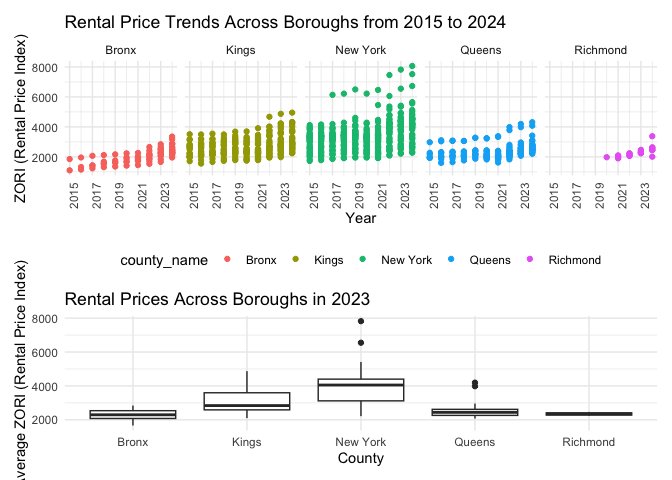
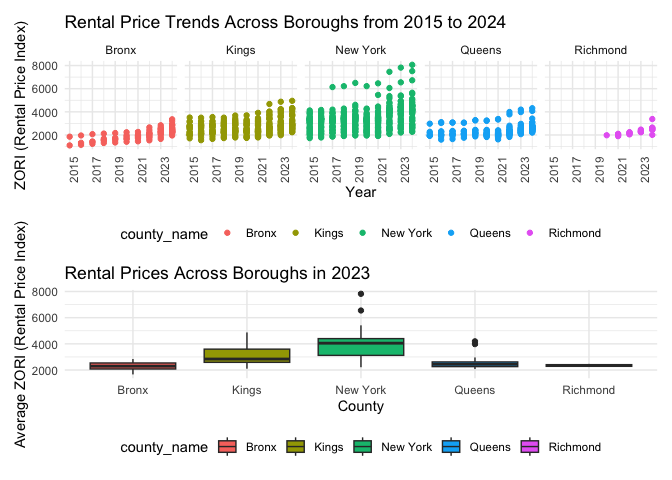
Update some plots and add comments

diff --git a/p8105_hw3_rk3445.md b/p8105_hw3_rk3445.md
@@ -206,6 +206,11 @@ instacart |>
 | Coffee Ice Cream |  13.77 |  14.32 |   15.38 |     15.32 |    15.22 |  12.26 |    13.83 |
 | Pink Lady Apples |  13.44 |  11.36 |   11.70 |     14.25 |    11.55 |  12.78 |    11.94 |
 
+From the table, Coffee Ice Cream is ordered the latest on Tuesday, with
+an average order time of 15.38 hours. Pink Lady Apples are ordered the
+latest on Wednesday, with an average order time of 14.25 hours, and the
+earliest on Monday.
+
 # Problem 2
 
 **Import, clean, and tidy Zillow datasets ** Import, clean, tidy NYC
@@ -260,9 +265,6 @@ zillow_nyc =
 ZIP codes are observed 116 times? How many are observed fewer than 10
 times? Why are some ZIP codes are observed rarely and others observed in
 each month?**
-
-(Question! Should I use the merged data of zipcode and zillow_nyc to
-consider the all the zipcodes instead of using only zillow dataset?)…!
 
 ``` r
 zipcode_all = 
@@ -424,10 +426,6 @@ ZIP-code-level rental prices across boroughs; put differently, your plot
 should facilitate the comparison of the distribution of average rental
 prices across boroughs. Comment on this plot.**
 
-!! question! The question says over each month but the zillow data
-already provides the monthly based rental price for each zip code. Does
-it mean that we need to compute the average over 2023?
-
 ``` r
 rental_2023 = 
   zillow_nyc |> 
@@ -436,27 +434,19 @@ rental_2023 =
   )  |> 
   filter(year == 2023) |> 
   group_by(zip_code, county_name) |> 
-  summarize(avg_zori = mean(zori)) |> 
-  ggplot(aes(x = county_name, y = avg_zori)) +
-  geom_boxplot() +
+  summarize(avg_zori = mean(zori), .groups = "drop") |> 
+  ggplot(aes(x = county_name, y = avg_zori, fill = county_name)) +
+  geom_boxplot(na.rm = TRUE) +
   labs(
     title = "Rental Prices Across Boroughs in 2023",    
     x = "County",
     y = "Average ZORI (Rental Price Index)"
-    
   ) +
-  theme_minimal()
-```
+  theme_minimal() +
+  theme(legend.position = "bottom") 
 
-    ## `summarise()` has grouped output by 'zip_code'. You can override using the
-    ## `.groups` argument.
-
-``` r
 rental_2023
 ```
-
-    ## Warning: Removed 36 rows containing non-finite outside the scale range
-    ## (`stat_boxplot()`).
 
 ![](p8105_hw3_rk3445_files/figure-gfm/unnamed-chunk-16-1.png)<!-- -->
 
@@ -473,9 +463,6 @@ to a results folder in your repository.**
 rental_allyear / rental_2023 
 ```
 
-    ## Warning: Removed 36 rows containing non-finite outside the scale range
-    ## (`stat_boxplot()`).
-
 ![](p8105_hw3_rk3445_files/figure-gfm/unnamed-chunk-17-1.png)<!-- -->
 
 ``` r
@@ -483,9 +470,6 @@ rental_plot = rental_allyear + rental_2023 + plot_layout(ncol = 2)
 
 ggsave("results/rental_combined.png", rental_plot, width = 12, height = 5, dpi = 300)
 ```
-
-    ## Warning: Removed 36 rows containing non-finite outside the scale range
-    ## (`stat_boxplot()`).
 
 # Problem 3
 
@@ -553,17 +537,18 @@ final_merged |>
     n_count = n(), 
     .groups = "drop"
   ) |> 
+  pivot_wider(
+    names_from = sex,
+    values_from = n_count
+  ) |> 
   knitr::kable() 
 ```
 
-| education              | sex    | n_count |
-|:-----------------------|:-------|--------:|
-| High school equivalent | female |      23 |
-| High school equivalent | male   |      35 |
-| Less than high school  | female |      28 |
-| Less than high school  | male   |      27 |
-| More than high school  | female |      59 |
-| More than high school  | male   |      56 |
+| education              | female | male |
+|:-----------------------|-------:|-----:|
+| High school equivalent |     23 |   35 |
+| Less than high school  |     28 |   27 |
+| More than high school  |     59 |   56 |
 
 **create a visualization of the age distributions for men and women in
 each education category.**
@@ -654,27 +639,27 @@ final_merged |>
   mutate(time = as.numeric(gsub("min", "", time))) |> 
   ggplot(aes(x = time, y = activity, color = sex)) +
   geom_smooth(se = FALSE, linewidth = 1) +
-  facet_grid(education ~ .) +
+  facet_wrap(education ~ .) +
   labs(
     title = "24-hour Activity Pattern by Education Level and Sex",
     x = "time (minutes)",
     y = "Activity Level",
     color = "Sex"
   ) +
-  theme_minimal()
+  theme_minimal() + 
+  theme(legend.position = "bottom")
 ```
 
 ![](p8105_hw3_rk3445_files/figure-gfm/unnamed-chunk-23-1.png)<!-- -->
 
 The plot displays the 24-hour activity level trends by education level
 and sex. Across all groups, activity levels are low during the early
-morning hours, rise sharply around mid-morning, and peak during daytime,
-followed by a steady decline in the evening and minimal activity
-overnight. Participants with more than high school education tend to
-show slightly higher and more consistent daytime activity, suggesting a
-structured daily routine. In contrast, those with less than high school
-education display greater variability throughout the day, with less
-pronounced peaks. The smooth trends also suggest that women tend to
-maintain slightly higher activity levels during daytime hours compared
-to men, particularly in the high school equivalent and more than high
-school groups.
+morning (around 0–300 minutes), rise sharply around mid-morning, and
+peak during daytime (approximately 600–1000 minutes), followed by a
+steady decline toward nighttime (after 1000 minutes).
+
+Individuals with less than high school education show a sharper rise and
+the highest daytime peaks, possibly reflecting irregular daily routines.
+Across all education levels, men and women show broadly similar temporal
+activity trends. However, women tend to have slightly higher daytime
+activity levels across the day.
